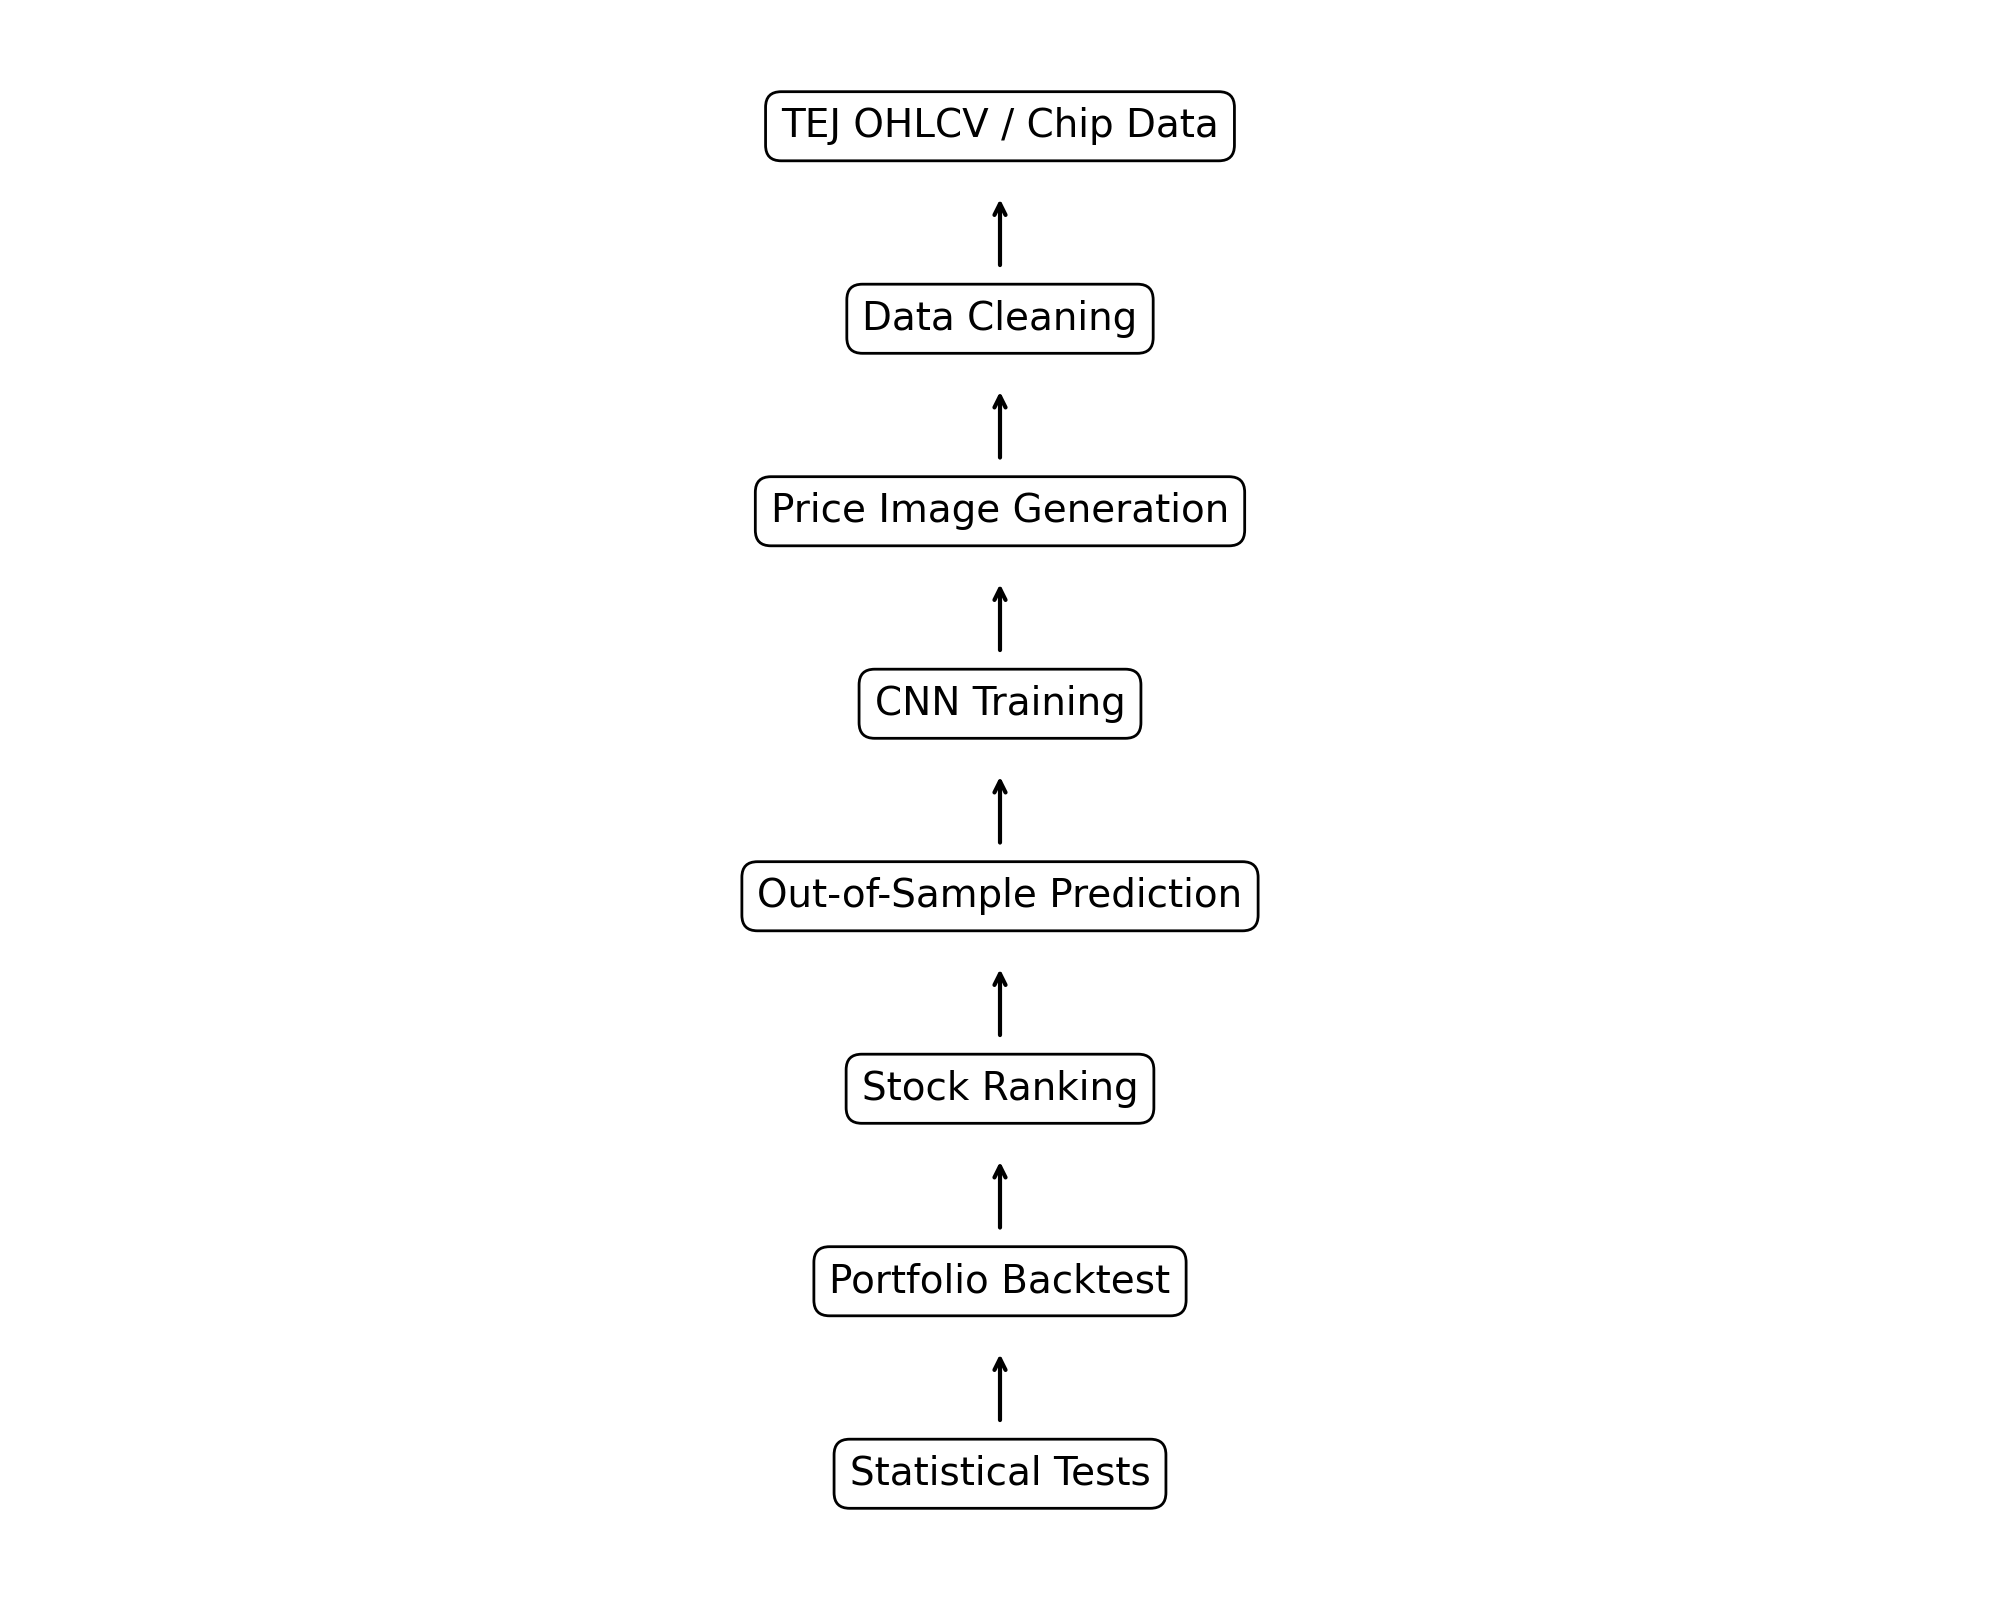
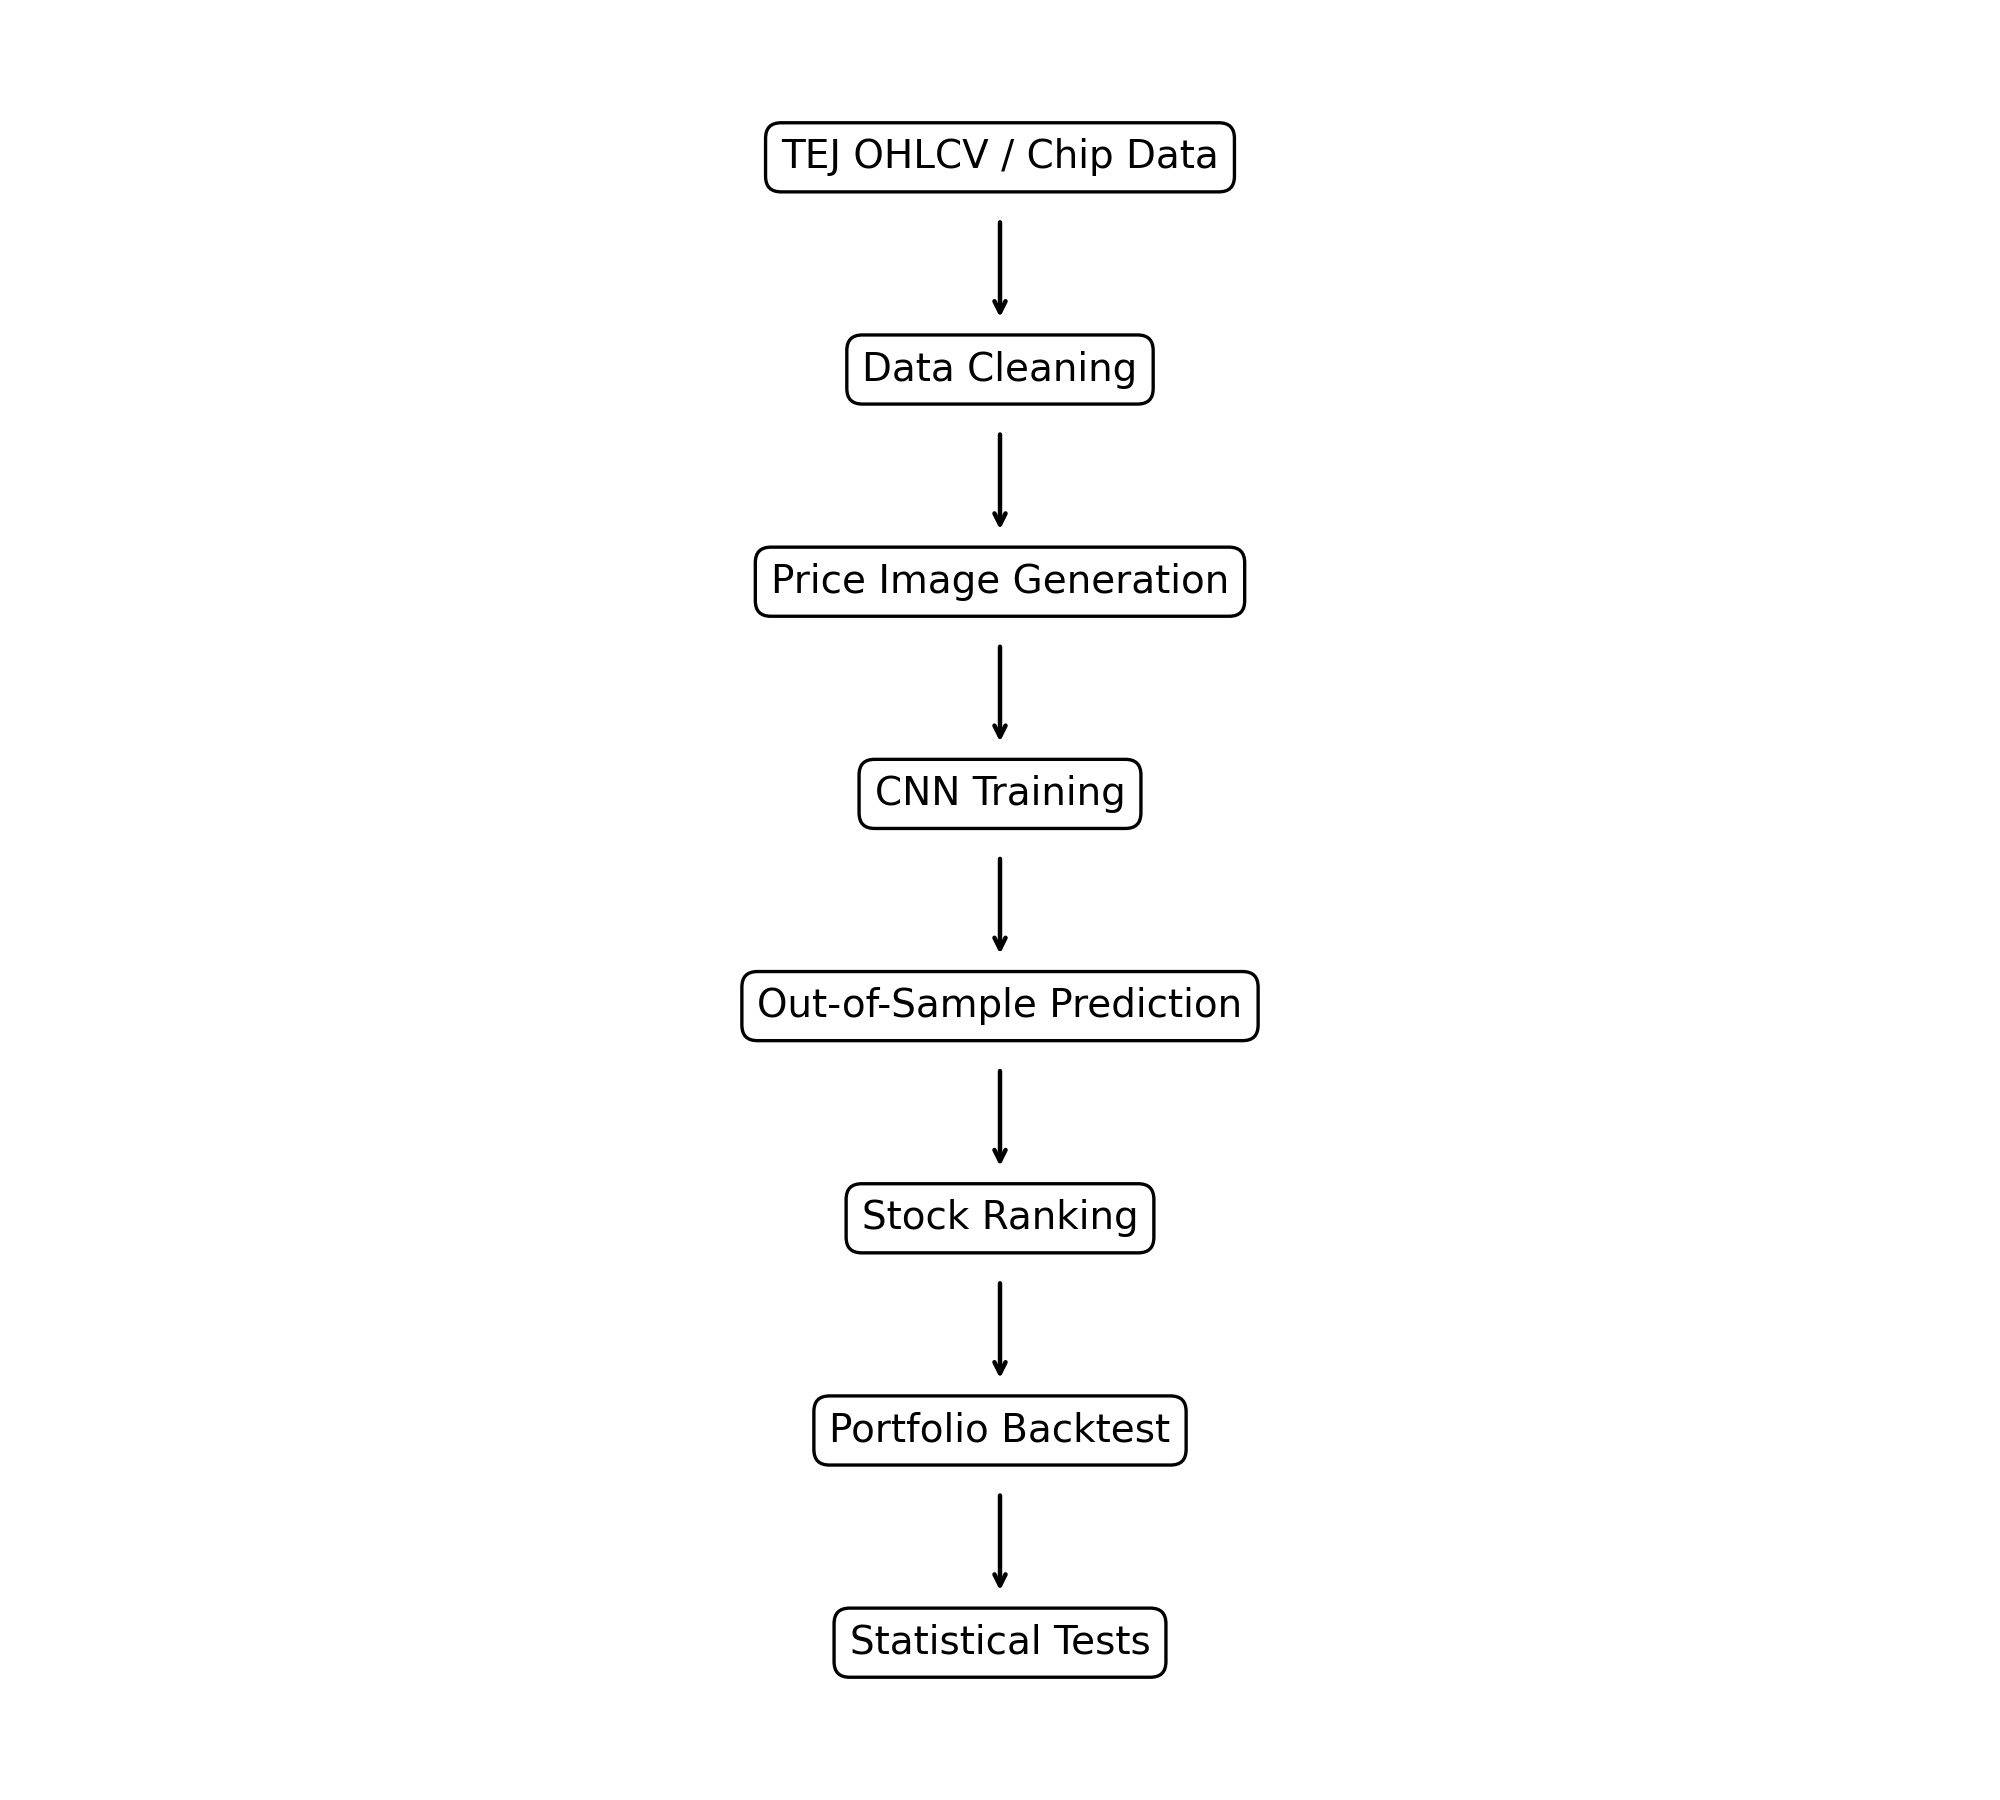
Fix research flow arrow direction

diff --git a/scripts/make_research_flow.py b/scripts/make_research_flow.py
@@ -11,7 +11,7 @@ steps = [
     "Statistical Tests",
 ]
 
-fig, ax = plt.subplots(figsize=(10, 8))
+fig, ax = plt.subplots(figsize=(10, 9))
 ax.axis("off")
 
 y_positions = list(range(len(steps), 0, -1))
@@ -24,19 +24,25 @@ for y, step in zip(y_positions, steps):
         ha="center",
         va="center",
         fontsize=14,
-        bbox=dict(boxstyle="round,pad=0.4", edgecolor="black", facecolor="white"),
+        bbox=dict(
+            boxstyle="round,pad=0.4",
+            edgecolor="black",
+            facecolor="white",
+            linewidth=1.2,
+        ),
     )
 
+    # arrow should point downward: current step -> next step
     if y > 1:
         ax.annotate(
             "",
-            xy=(0.5, y - 0.35),
-            xytext=(0.5, y - 0.75),
-            arrowprops=dict(arrowstyle="->", lw=1.5),
+            xy=(0.5, y - 0.78),
+            xytext=(0.5, y - 0.28),
+            arrowprops=dict(arrowstyle="->", lw=1.6),
         )
 
 ax.set_xlim(0, 1)
-ax.set_ylim(0.5, len(steps) + 0.5)
+ax.set_ylim(0.4, len(steps) + 0.6)
 
 plt.tight_layout()
 plt.savefig("outputs_sample/research_flow.png", dpi=200)